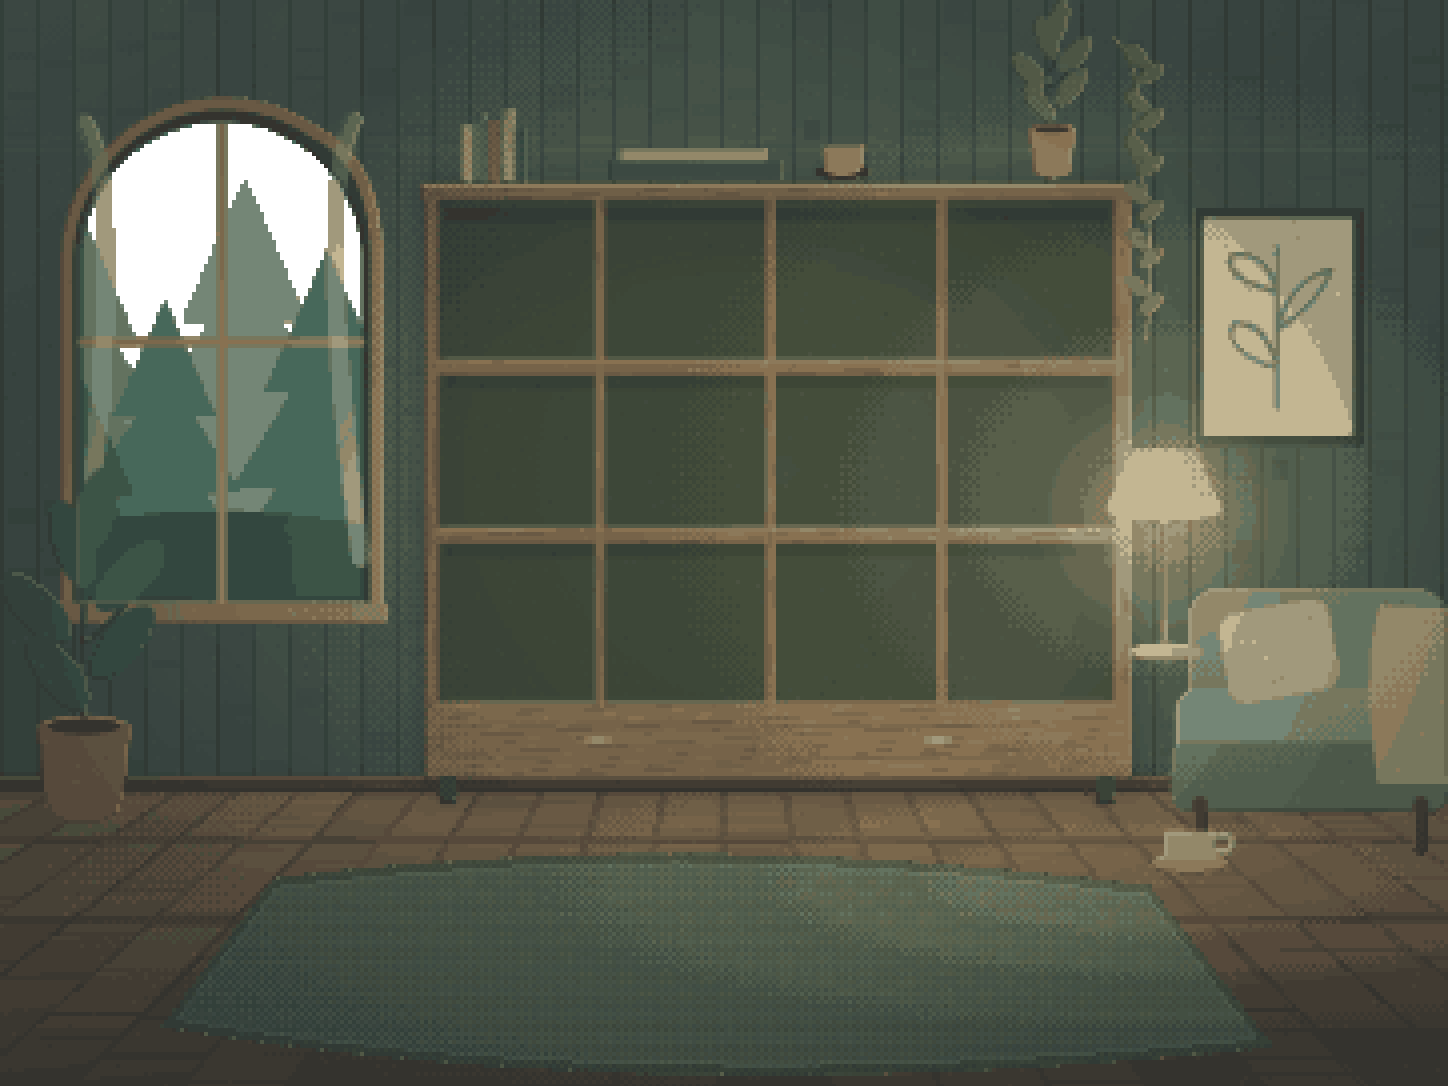
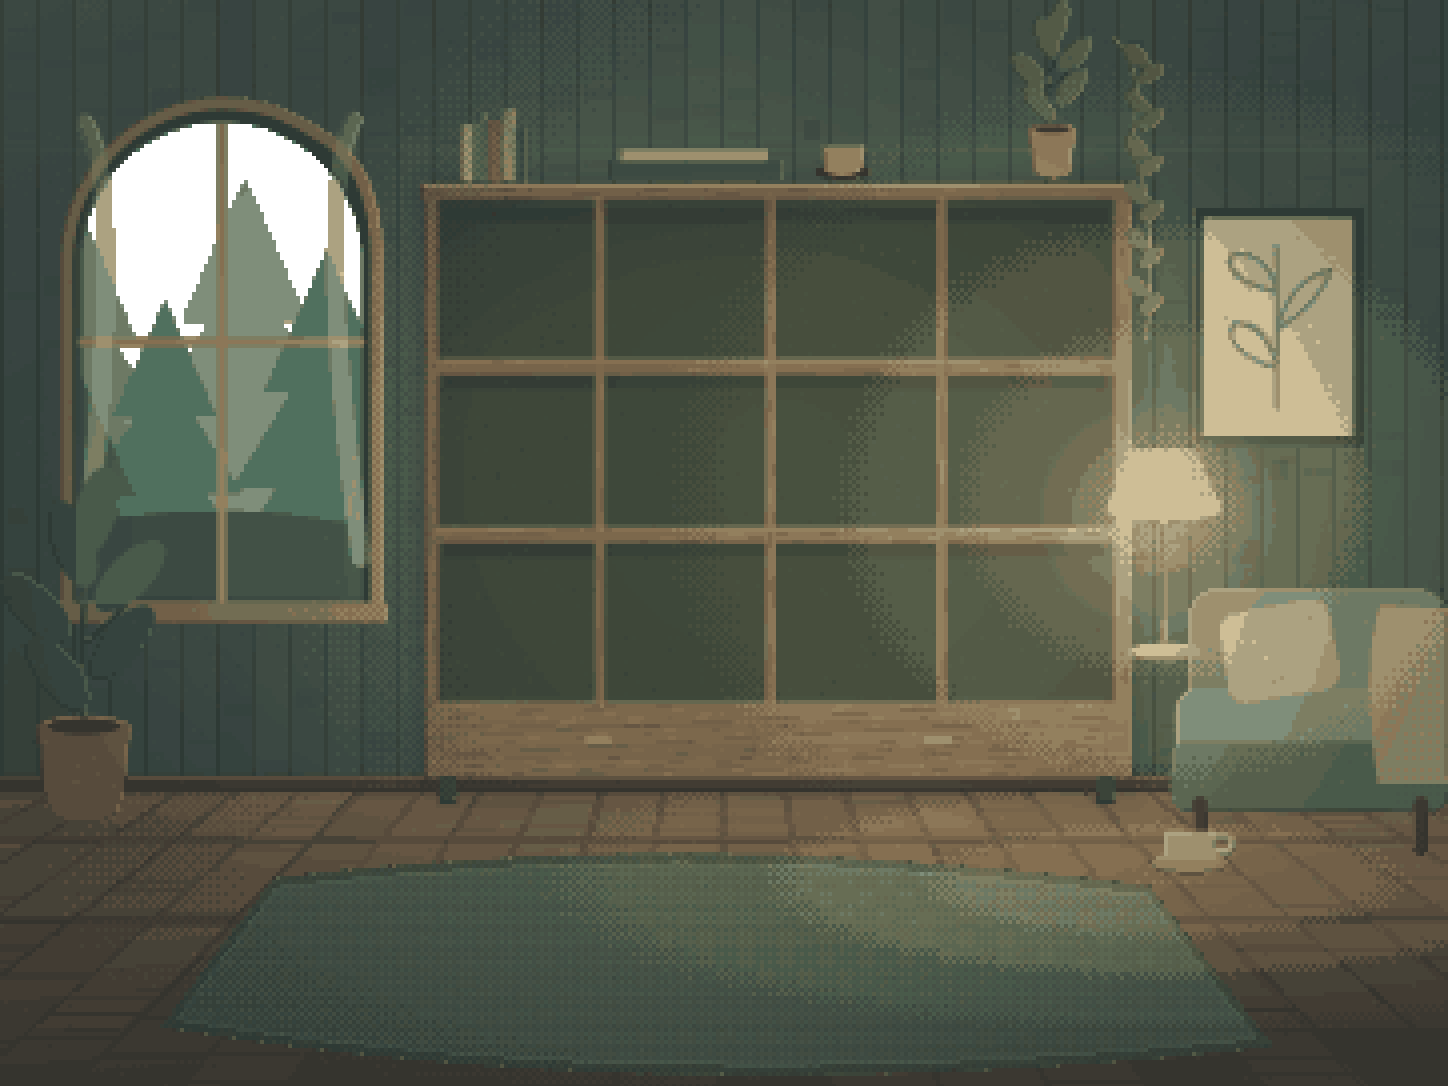
Warmer lamp pass for the repainted rooms, thumbnails with a sky behind the glass, art-direction pipeline and licence rows (SunCalc, Open-Meteo, Skycons idea)
Claude-Session: https://claude.ai/code/session_01WevajRzTp6tpUz8SRTar4S

diff --git a/scripts/art/scene-thumbs.py b/scripts/art/scene-thumbs.py
@@ -4,13 +4,36 @@ Usage: python3 scripts/art/scene-thumbs.py
 Each scene's room art (1448x1086, 4x4 art pixels) is box-downscaled by 4 to
 362x272, one image pixel per art pixel, so a card loads ~1/20 of the scene's
 bytes. Writes public/room-scenes/thumbs/<scene id>.png.
+The windows are transparent (the live sky shows through them in the app), so
+each thumbnail gets a fixed sky behind its glass: hard bands from top to
+horizon (no smooth ramps) plus a few stars on the night ones.
 """
 from pathlib import Path
-from PIL import Image
+import math
+from PIL import Image, ImageColor
 
 ROOT = Path(__file__).resolve().parents[2] / 'public' / 'room-scenes'
 SCENES = {'pixel': 'pixel-cabin.png', 'warm': 'warm-cabin.png', 'night-study': 'night-study-pixel.png', 'forest': 'forest-cabin-pixel.png', 'seaside': 'seaside-cabin-pixel.png', 'starlight': 'starlight-cabin-pixel.png'}
+# (top, horizon, stars) per scene: the two hearth cabins and the starlight room at night.
+NIGHT, DAY = ('#0b1030', '#2a3466', True), ('#6aa4e4', '#d4e6ee', False)
+SKIES = {'pixel': NIGHT, 'warm': NIGHT, 'night-study': NIGHT, 'forest': DAY, 'seaside': DAY, 'starlight': NIGHT}
+
+def sky(size, top, horizon, stars):
+    w, h = size; a, b = ImageColor.getrgb(top), ImageColor.getrgb(horizon); im = Image.new('RGB', size)
+    px = im.load()
+    for y in range(h):
+        t = min(5, int(y / h * 1.6 * 6)) / 5
+        c = tuple(round(a[k] + (b[k] - a[k]) * t) for k in range(3))
+        for x in range(w): px[x, y] = c
+    if stars:
+        for i in range(260):
+            x, y = int(abs(math.sin(i * 12.9898) * 43758.5453) % 1 * w) // 4 * 4, int(abs(math.sin(i * 78.233) * 43758.5453) % 1 * h * .6) // 4 * 4
+            for dx in range(4):
+                for dy in range(4): px[x + dx, y + dy] = (232, 236, 255) if i % 3 else (200, 206, 240)
+    return im
+
 (ROOT / 'thumbs').mkdir(exist_ok=True)
 for scene, name in SCENES.items():
-    im = Image.open(ROOT / name).convert('RGB').resize((362, 272), Image.BOX)
+    art = Image.open(ROOT / name).convert('RGBA'); back = sky(art.size, *SKIES[scene]); back.paste(art, (0, 0), art)
+    im = back.resize((362, 272), Image.BOX)
     im.quantize(colors=96, method=Image.Quantize.MEDIANCUT, dither=Image.Dither.NONE).save(ROOT / 'thumbs' / f'{scene}.png', optimize=True)

diff --git a/scripts/art/paint-scene.py b/scripts/art/paint-scene.py
@@ -138,9 +138,9 @@ def main(scene, folder, out):
     lit = np.where(glass | sky, .5, steps)
     warm, cool = np.array(room['warm'], np.float32), np.array(room['cool'], np.float32)
     a = room['ambient']
-    gain = a + (1.16 - a) * lit
+    gain = a + (1.22 - a) * lit
     img = img * gain[..., None]
-    img = img + (warm - img) * (np.clip(lit - .5, 0, 1) * .22)[..., None]
+    img = img + (warm - img) * (np.clip(lit - .4, 0, 1) * .34)[..., None]
     img = img + (cool - img) * (np.clip(.45 - lit, 0, 1) * .26)[..., None]
 
     # Rim: objects (not wall/floor/rug/sky/glass) get a lit 1 px edge toward the lamp, dark away.

diff --git a/docs/art-direction.md b/docs/art-direction.md
@@ -13,13 +13,15 @@ nothing glossy or rounded. Owner of this document: art direction (beauty).
 | Shape | No radii. Panels use the 9-slice notched frame `border-image: var(--px-frame-img) 2 / 6px`; buttons get a 2 px bevel + hard shadow (`--px-shadow-*`). |
 | Motion | `steps()` easing (`--px-ease`), durations `--px-dur-fast/med/slow`. Animate `translate/scale/opacity` only. Every animation has a reduced-motion fallback (`prefers-reduced-motion` and `html[data-desktop-reduce-motion=true]`). |
 | Images | Pixel art always `image-rendering: pixelated` (`.px-crisp`). Covers are box-filtered to 64×64 then upscaled. |
-| Scenes | All six rooms are pixel art — Pixel Cabin 像素小屋 (default), Amber Cabin 琥珀小屋, Moonlit Study 月夜书桌, Forest Glade 林间书屋, Seaside 海边慢屋, Starry Night 星夜阁楼 (`labelEn` in `scene-catalog.mjs`). Vector sources stay in `public/room-scenes/*.svg`; the room shows `*-cabin-pixel.png` (`scene.view`), made with `scripts/art/pixelate-scene.py`. |
+| Scenes | All six rooms are pixel art — Pixel Cabin 像素小屋 (default), Amber Cabin 琥珀小屋, Moonlit Study 月夜书桌, Forest Glade 林间书屋, Seaside 海边慢屋, Starry Night 星夜阁楼 (`labelEn` in `scene-catalog.mjs`). Vector sources stay in `public/room-scenes/*.svg`; the room shows `*-cabin-pixel.png` (`scene.view`), made with `scripts/art/pixelate-scene.py`; Forest / Seaside / Starry Night are repainted by `scripts/art/paint-scenes.mjs` + `paint-scene.py` (wood grain, boards, planks, rug weave, sparse grain, one warm lamp in five dithered steps with hue-shifted ramps and a 1 px rim, 56 colours, 4× nearest). Every window's sky is transparent in the art: the live sky shows through it. |
 
 ## Live layers on top of the art
 
 - **Turntable** — `src/scene/SceneDeck.jsx` + `deck-sprite.mjs`: a 56×22-cell sprite (1 cell = 4 art px) sitting on the shelf top, per-scene position in `scene-deck.css`. Record seats in 4 frames, sheen orbits in 8, tonearm swings in 4, LED + notes while playing, halo follows `cabin:playback` energy. The painted turntable was removed from the pixel/amber art so there is only one deck. Wood is graded per scene (`DECK_PALETTES`: walnut for Pixel/Amber, own-shelf tones for Forest/Seaside/Starry Night) through `--deck-N` CSS variables. The room cat stands on each scene's painted `floor` line (`scene-catalog.mjs`, art px) at 32 cells × 4 art px × k, snapped to a whole multiple of 32 CSS px; records without a cover get a generated 32×32 cabin-palette sleeve.
 - **Console** — `src/scene/room-console.css`: compact framed panel bottom-left; audio sliders stay pinned when the 待播 queue is open.
-- **Ambient** — `src/scene/AmbientLife.jsx`: dust motes + window light beam (time-of-day aware). Snow / fire / daylight remain in `CabinAtmosphere`.
+- **Sky** — `src/CabinAtmosphereSky.jsx` for every scene's `windows` (`scene-catalog.mjs`, art px): a minute clock (`sky-clock.mjs`) takes the sun's altitude from vendored SunCalc for the chosen city (`sky-cities.mjs`, default from the time zone; 固定作息 = a fixed 6:30–18:30 curve) and picks colours from separate morning / evening keyframe sets in sun-altitude space (`sky-model.mjs`). They land as `--sky-*` variables registered with `@property`, eased by CSS in `steps(6)`; the bucket strings (`morning/day/dusk/night`) stay for older selectors. Behind the art: a hard-banded gradient plus a pixel canvas (stars, moon with its real phase, sun, clouds, distant fog, contained lightning). Over painted land / sea in the glass: a once-a-minute soft-light tint. Room: `.cabin-daylight` (glow) and `.cabin-nightshade` (multiply, with a hole around the scene's lamp).
+- **Weather** — `sky-weather.mjs`: `{kind, intensity, wind}` → layers (clouds, fog, rain, snow, storm, starry) cross-fading over 30 s from absolute time. `sky-paint.mjs` writes 1 canvas px = 4 art px with Bayer coverage, clipped to each window's glass (mullions excluded): rain streaks, snow, fog banks, beads on the glass when it rains. Frame budget on the shared frame clock: rain / snow / storm 12 fps (8 on 流畅), drifting cloud / fog / twinkle 2 fps (1), clear sky 0 (the loop stops); hidden, occluded or reduced motion stop it (reduced shows a still frame, no lightning). Real weather is opt-in and desktop-only (`desktop/weather.cjs`, Open-Meteo).
+- **Ambient** — `src/scene/AmbientLife.jsx`: dust motes + window light beam (strength follows `--sky-light`). Fire / hearth light remain in `CabinAtmosphere` (Pixel / Amber).
 - **Companion** — `src/pet/PetLife.jsx`: breathing, hover perk, poke squish + hearts, drag dangle, Zzz, focus dots, sparkles, music bop scaled by `--pet-energy`.
 
 ## Events consumed
@@ -34,6 +36,10 @@ nothing glossy or rounded. Owner of this document: art direction (beauty).
 | Silkscreen (subset) | github.com/google/fonts `ofl/silkscreen` | SIL OFL 1.1 |
 | Turntable, notes, hearts, Zzz, sparkles, frames | drawn in code in this repo | project licence |
 | Scene pixel renders | derived from the repo's own scene art | project licence |
+| Sky, weather, moon, repainted Forest / Seaside / Starry Night | drawn in code in this repo (`src/sky-paint.mjs`, `scripts/art/paint-scene.py`) | project licence |
+| SunCalc (sun / moon position, moon phase) | github.com/mourner/suncalc @21449f3, vendored as `src/sky-suncalc.mjs` | BSD-2-Clause (`public/licenses/suncalc-LICENSE.txt`) |
+| Weather data (desktop, opt-in) | open-meteo.com forecast API, fetched in the Electron main process | data CC BY 4.0, attributed in 设置 › 房间与桌宠 |
+| Cloud puff layout idea | Skycons (darkskyapp/skycons) | CC0 — idea only, no code |
 
 ## Moonlit Study 月夜书桌 (night-study)
 
